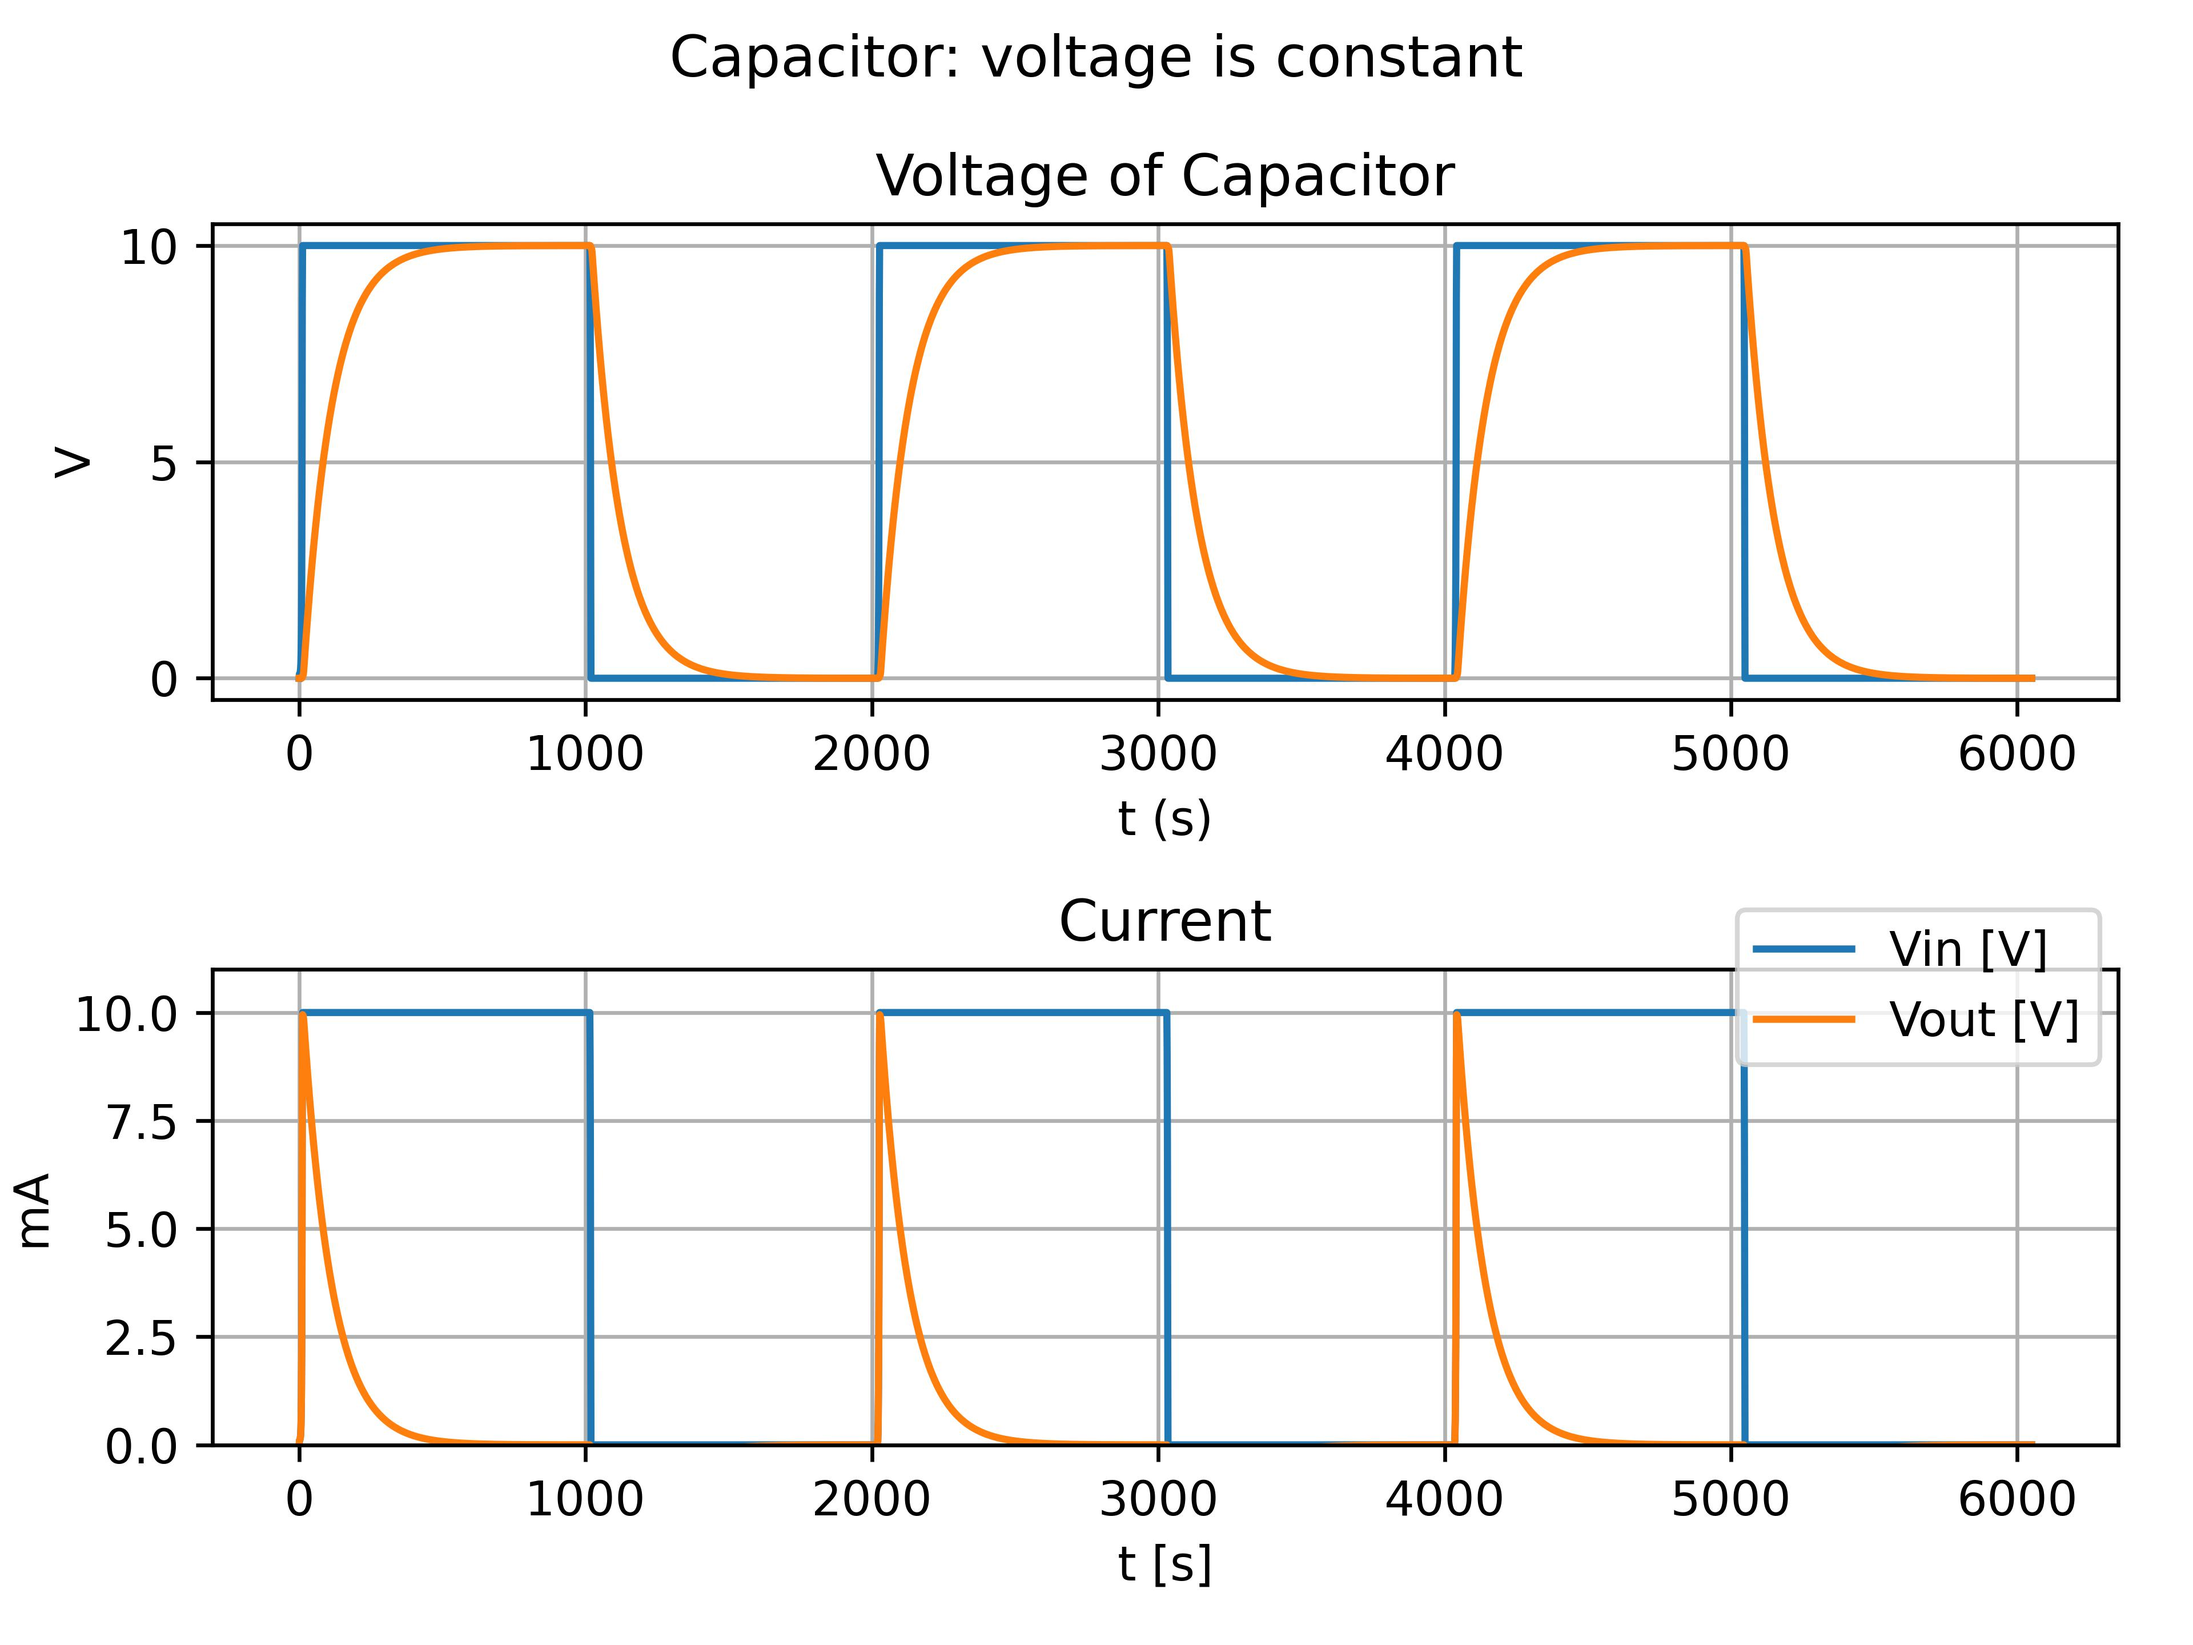
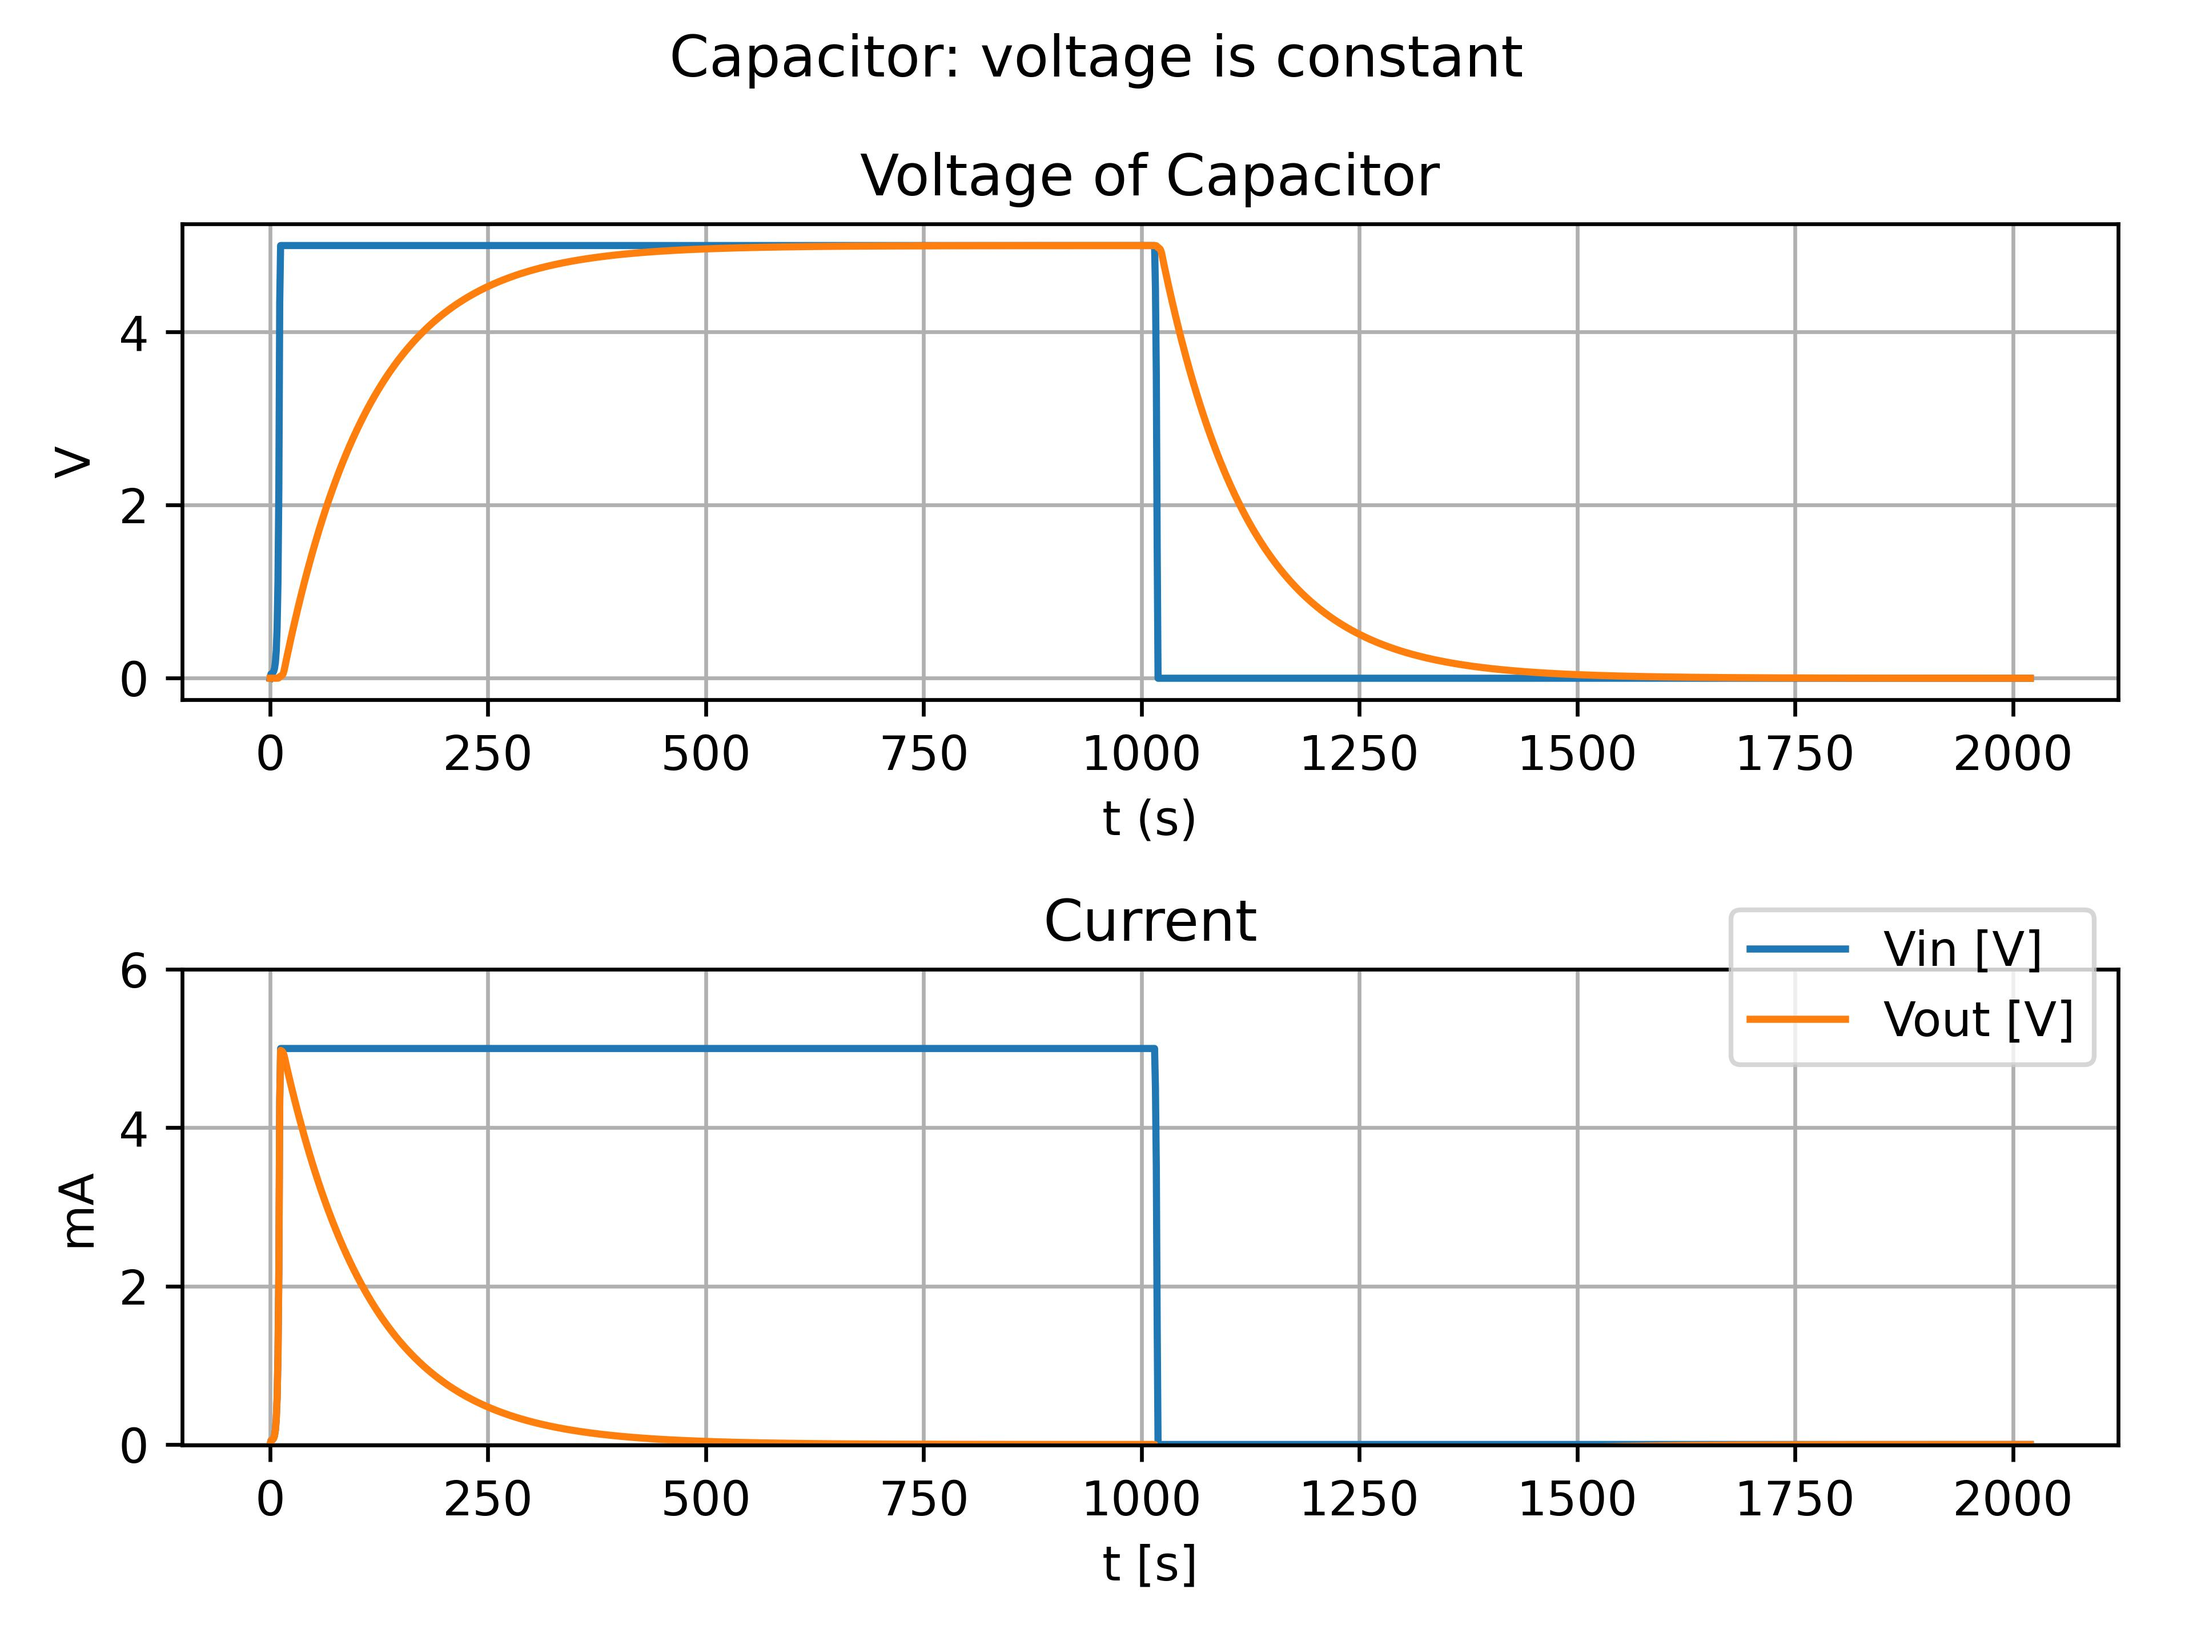
Committing new circuits added

diff --git a/main.py b/main.py
@@ -89,23 +89,62 @@ def constructCircuit():
     return r1, r2, deviceVal
 
 def drawVoltageDivider():
-    pass
+    with schemdraw.Drawing() as d:
+        d += elm.Ground()
+        d += elm.SourceV().up().label('5V')
+        d += elm.Dot().label('in')
+        d += elm.Resistor().right().label('2kΩ')
+        d.push()
+        d += elm.Line().right()
+        d += elm.Dot(open=True).label('out')
+        d.pop()
+        d += elm.Resistor().down().label('1kΩ')
+        d += elm.Line().left()
+        d.save("figures/VoltageDivider.jpg")
 
 def drawRC():
     with schemdraw.Drawing() as d:
+        d += elm.Switch()
         d += elm.Resistor().right().label('1kΩ')
         d += elm.Capacitor().down().label('1μF')
         d += elm.Line().left()
-        d += elm.SourceSin().up().label('10V')
-        d.save("figures/RCdrawing.jpg")
+        d += elm.Line().left()
+        d += elm.SourceV().up().label('5V')
+        d.save("figures/RCDrawingOpen.jpg")
+
+    with schemdraw.Drawing() as d:
+        d += elm.Switch(action="close")
+        d += elm.Resistor().right().label('1kΩ')
+        d += elm.Capacitor().down().label('1μF')
+        d += elm.Line().left()
+        d += elm.Line().left()
+        d += elm.SourceV().up().label('5V')
+        d.save("figures/RCDrawingClosed.jpg")
 
 def drawRL():
     with schemdraw.Drawing() as d:
+        d += elm.Dot().label("in")
+        d += elm.Switch()
+        d += elm.Dot().label("resistor")
         d += elm.Resistor().right().label('1kΩ')
+        d += elm.Dot().label("out")
         d += elm.Inductor().down().label('1H')
         d += elm.Line().left()
-        d += elm.SourceSin().up().label('10V')
-        d.save("figures/RLdrawing.jpg")
+        d += elm.Line().left()
+        d += elm.SourceV().up().label('5V')
+        d.save("figures/RLDrawingOpen.jpg")
+
+    with schemdraw.Drawing() as d:
+        d += elm.Dot().label("in")
+        d += elm.Switch(action="close")
+        d += elm.Dot().label("resistor")
+        d += elm.Resistor().right().label('1kΩ')
+        d += elm.Dot().label("out")
+        d += elm.Inductor().down().label('1H')
+        d += elm.Line().left()
+        d += elm.Line().left()
+        d += elm.SourceV().up().label('5V')
+        d.save("figures/RLDrawingClosed.jpg")
 
 def voltageDivider():
 # TODO: Add comments
@@ -114,9 +153,9 @@ def voltageDivider():
 
     circuit = Circuit('Voltage Divider')
 
-    circuit.V('input', 1, circuit.gnd, 10@u_V)
-    circuit.R(1, 1, 2, 2@u_kΩ)
-    circuit.R(2, 2, circuit.gnd, 1@u_kΩ)
+    circuit.V('input', 'in', circuit.gnd, 10@u_V)
+    circuit.R(1, 'in', 'out', 2@u_kΩ)
+    circuit.R(2, 'out', circuit.gnd, 1@u_kΩ)
 
     simulator = circuit.simulator(temperature=25, nominal_temperature=25)
     analysis = simulator.operating_point()
@@ -141,7 +180,7 @@ def RCCircuit():
     # Fixme: compute value
     
     source = circuit.PulseVoltageSource('input', 'in', circuit.gnd,
-                            initial_value=0@u_V, pulsed_value=10@u_V,
+                            initial_value=0@u_V, pulsed_value=5@u_V,
                             pulse_width=10@u_ms, period=20@u_ms)
     circuit.R(1, 'in', 'out', 1@u_kΩ)
     circuit.C(1, 'out', circuit.gnd, 1@u_uF)
@@ -151,7 +190,7 @@ def RCCircuit():
 
     simulator = circuit.simulator(temperature=25, nominal_temperature=25)
     step_time = 10@u_us
-    analysis = simulator.transient(step_time=step_time, end_time=source.period * 3)
+    analysis = simulator.transient(step_time=step_time, end_time=source.period)
 
     # Let define the theoretical output voltage.
     def out_voltage(t, tau):
@@ -176,7 +215,7 @@ def RCCircuit():
     plots[0].plot(analysis['in'])
     plots[0].plot(analysis['out'])
     # plots[1].set_xlim(0, 1000)
-    plots[1].set_ylim(-0.01, 11)
+    plots[1].set_ylim(-0.01, 6)
     plots[0].set_xlabel('t (s)')
     plots[0].set_ylabel('V')
     # Fixme: resistor current, scale
@@ -184,8 +223,9 @@ def RCCircuit():
     plots[1].grid()
     plots[1].plot(analysis['in'])
     plots[1].plot(((analysis['in'] - analysis.out)/circuit['R1'].resistance) * current_scale)
+    print(analysis)
     # plots[1].set_xlim(0, 1000)
-    plots[1].set_ylim(-0.01, 11)
+    plots[1].set_ylim(-0.01, 6)
     plots[1].set_xlabel('t [s]')
     plots[1].set_ylabel('mA')
     plt.legend(('Vin [V]', 'Vout [V]', 'I'), loc=(.8,.8))
@@ -204,13 +244,11 @@ def RLCircuit():
 
     element_type = ('inductor')
 
-    # for element_type in ('capacitor'):
-
     circuit = Circuit(element_type.title())
     # Fixme: compute value
     
     source = circuit.PulseVoltageSource('input', 'in', circuit.gnd,
-                            initial_value=0@u_V, pulsed_value=10@u_V,
+                            initial_value=0@u_V, pulsed_value=5@u_V,
                             pulse_width=10@u_ms, period=20@u_ms)
     circuit.R(1, 'in', 'out', 1@u_kΩ)
     circuit.L(1, 'out', circuit.gnd, 1@u_H)
@@ -220,7 +258,7 @@ def RLCircuit():
 
     simulator = circuit.simulator(temperature=25, nominal_temperature=25)
     step_time = 10@u_us
-    analysis = simulator.transient(step_time=step_time, end_time=source.period * 0.5)
+    analysis = simulator.transient(step_time=step_time, end_time=source.period)
 
     # Let define the theoretical output voltage.
     def out_voltage(t, tau):
@@ -242,8 +280,8 @@ def RLCircuit():
     plots[0].grid()
     plots[0].plot(analysis['in'])
     plots[0].plot(analysis['out'])
-    plots[1].set_xlim(0, 1000)
-    plots[1].set_ylim(-0.01, 11)
+    # plots[1].set_xlim(0, 1000)
+    plots[0].set_ylim(-0.01, 6)
     plots[0].set_xlabel('t (s)')
     plots[0].set_ylabel('V')
     # Fixme: resistor current, scale
@@ -251,8 +289,8 @@ def RLCircuit():
     plots[1].grid()
     plots[1].plot(analysis['in'])
     plots[1].plot(((analysis['in'] - analysis.out)/circuit['R1'].resistance) * current_scale)
-    plots[1].set_xlim(0, 1000)
-    plots[1].set_ylim(-0.01, 11)
+    # plots[1].set_xlim(0, 1000)
+    plots[1].set_ylim(-0.01, 6)
     plots[1].set_xlabel('t [s]')
     plots[1].set_ylabel('mA')
     plt.legend(('Vin [V]', 'Vout [V]', 'I'), loc=(.8,.8))
@@ -260,16 +298,86 @@ def RLCircuit():
     plt.tight_layout()
     plt.savefig("figures/RLCircuit.jpg", dpi=600)
 
+def RLCCircuit():
+    drawRL()
+
+    print("Drawing of circuit in figures folder")
+
+    element_type = ('inductor')
+
+    # for element_type in ('capacitor'):
+
+    circuit = Circuit(element_type.title())
+    # Fixme: compute value
+    
+    source = circuit.PulseVoltageSource('input', 'in', circuit.gnd,
+                            initial_value=0@u_V, pulsed_value=5@u_V,
+                            pulse_width=10@u_ms, period=20@u_ms)
+    # circuit.R(1, 'in', 'resistor', 1@u_kΩ)
+    # circuit.L(1, 'resistor', 'out', 1@u_H)
+    # circuit.C(1, 'out', circuit.gnd, 1@u_uF)
+
+    circuit.R(1, 'in', circuit.gnd, 1@u_kΩ)
+    circuit.L(1, 'resistor', circuit.gnd, 1@u_H)
+    circuit.C(1, 'out', circuit.gnd, 1@u_uF)
+    # circuit.R(2, 'out', circuit.gnd, kilo(1)) # for debug
+
+    tau = circuit['L1'].inductance / circuit['R1'].resistance
+
+    simulator = circuit.simulator(temperature=25, nominal_temperature=25)
+    step_time = 10@u_us
+    analysis = simulator.transient(step_time=step_time, end_time=source.period)
+
+    # Let define the theoretical output voltage.
+    def out_voltage(t, tau):
+        return float(source.pulsed_value) * np.exp(-t / tau)
+    # Fixme: get step_time from analysis
+    # At t = 5 tau, each circuit has nearly reached it steady state.
+    i_max = int(5 * tau / float(step_time))
+    popt, pcov = curve_fit(out_voltage, analysis.out.abscissa[:i_max], analysis.out[:i_max])
+    tau_measured = popt[0]
+
+    print('tau {0} = {1}'.format(element_type, tau.canonise().str_space()))
+    print('tau measured {0} = {1:.1f} ms'.format(element_type, tau_measured * 1000))
+
+    plt.figure()
+    fig, plots = plt.subplots(2, 1)
+    plt.suptitle("Inductor: current is constant")
+    current_scale = 1000
+    plots[0].set_title("Voltage of Inductor")
+    plots[0].grid()
+    plots[0].plot(analysis['in'])
+    plots[0].plot(analysis['out'])
+    plots[0].plot(analysis['resistor'])
+    # plots[1].set_xlim(0, 1000)
+    plots[0].set_ylim(-0.01, 6)
+    plots[0].set_xlabel('t (s)')
+    plots[0].set_ylabel('V')
+    # Fixme: resistor current, scale
+    plots[1].set_title("Current")
+    plots[1].grid()
+    plots[1].plot(analysis['in'])
+    plots[1].plot(((analysis['in'] - analysis.out)/circuit['R1'].resistance) * current_scale)
+    # plots[1].set_xlim(0, 1000)
+    plots[1].set_ylim(-0.01, 6)
+    plots[1].set_xlabel('t [s]')
+    plots[1].set_ylabel('mA')
+    plt.legend(('Vin [V]', 'Vout [V]', 'I'), loc=(.8,.8))
+
+    plt.tight_layout()
+    plt.savefig("figures/RLCCircuit.jpg", dpi=600)
+
 def start():
 # TODO: Possibly add RLC circuit as well
     choice = 0
-    while choice != 5:
+    while choice != 6:
         print("What would would you like to do?")
         print("1. Construct main circuit")
         print("2. Simulate voltage divider")
         print("3. Simulate RC circuit")
         print("4. Simulate RL circuit")
-        print("5. Quit")
+        print("5. Simulate RLC")
+        print("6. Quit")
         choice = int(input("Choice: "))
         if choice == 1:
             r1, r2, deviceVal = constructCircuit()
@@ -281,6 +389,8 @@ def start():
         elif choice == 4:
             RLCircuit()
         elif choice == 5:
+            RLCCircuit()
+        elif choice == 6:
             break
 
 if __name__ == "__main__":
